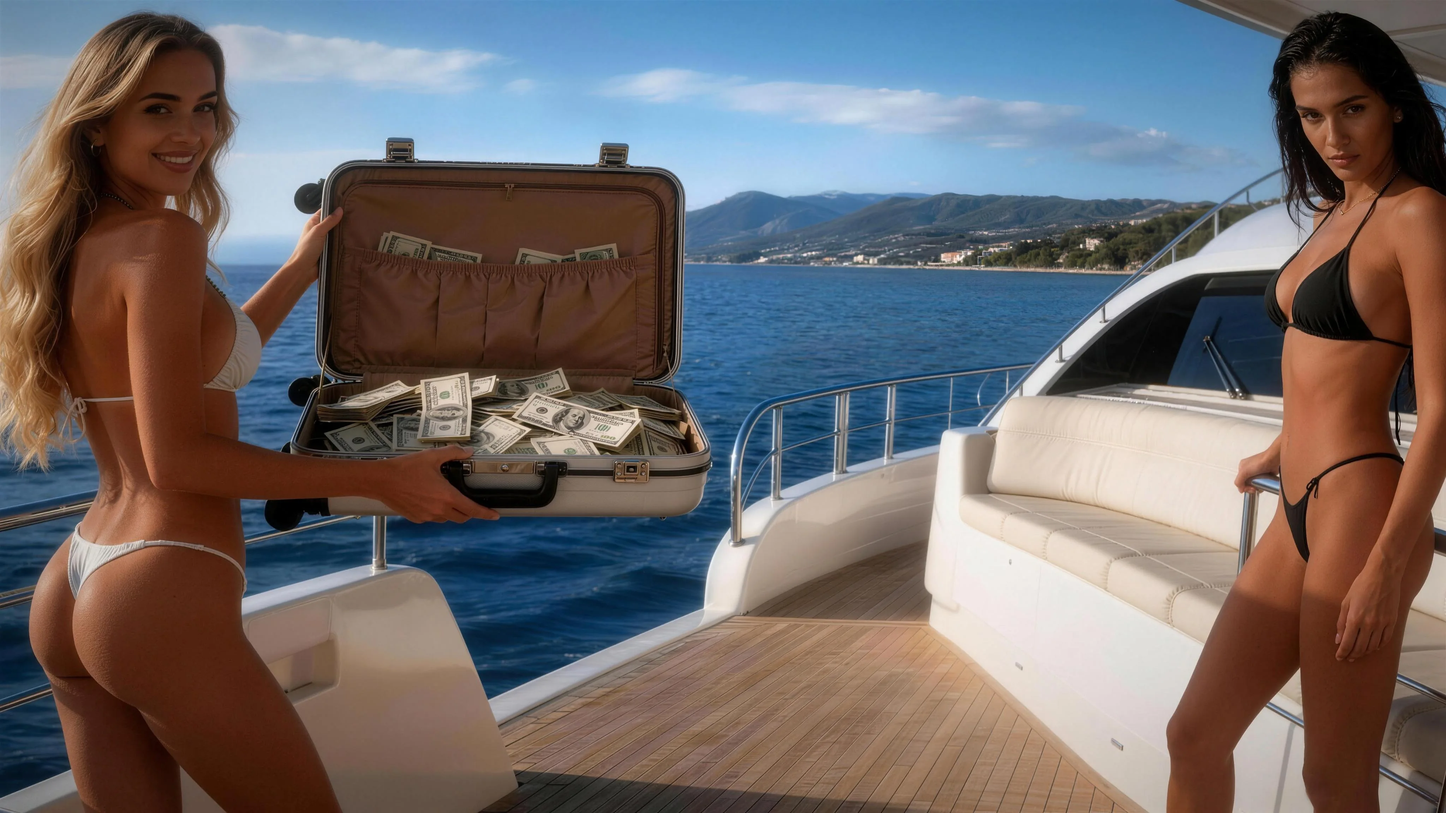
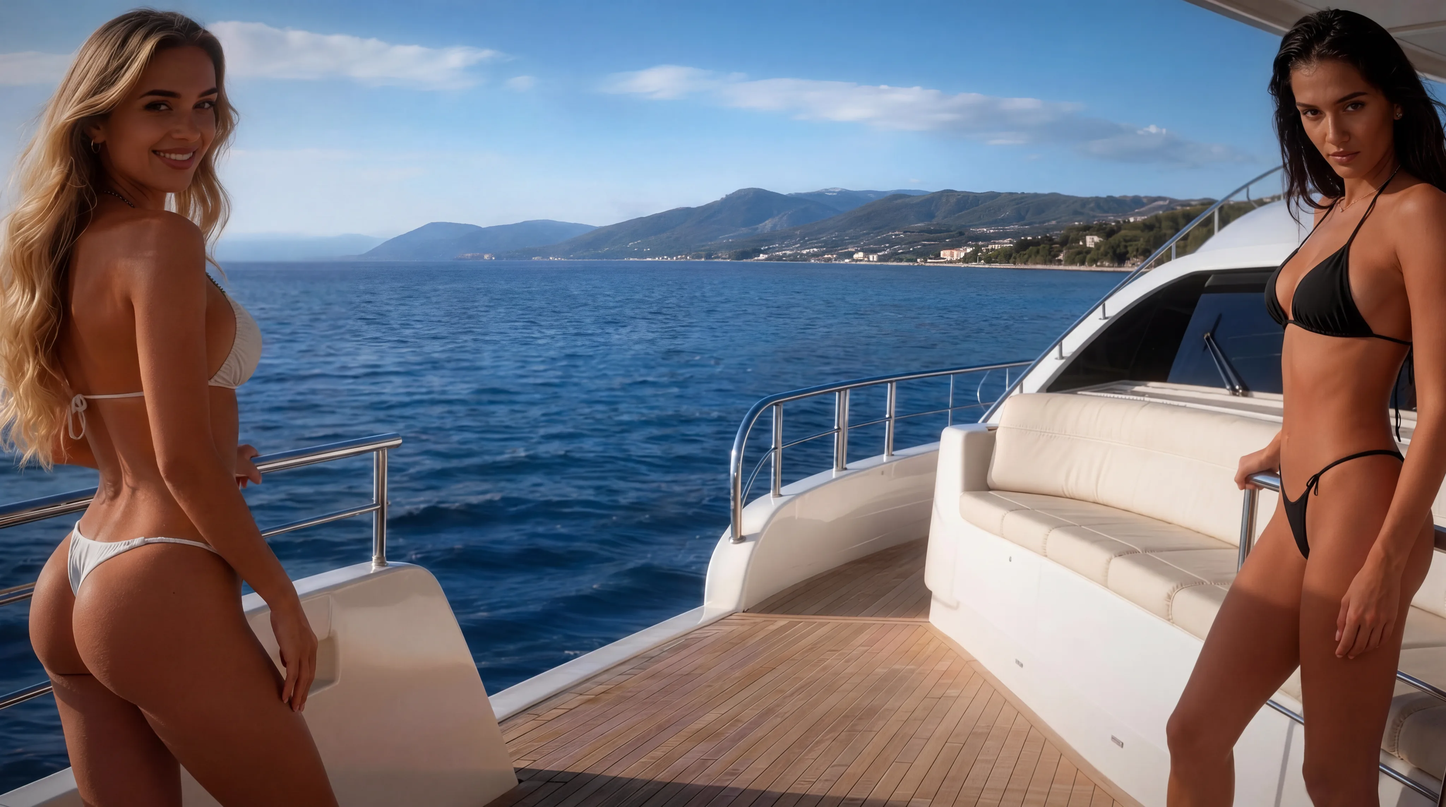
single: new daytime hero photo (same character placement), FOMO pill on a dark blurred plate (was unreadable on the bright hull), classic footer lockup — white OK on the red plate; fix hero preload (pointed at panorama.webp); cache-bust v=20260709a

diff --git a/assets/css/single.css b/assets/css/single.css
@@ -4,7 +4,7 @@
   --white: #FFFFFF; --black: #080808;
   --red: #E71F43; --red-deep: #C01935;
   --muted: rgba(255,255,255,0.62); --faint: rgba(255,255,255,0.30); --line: rgba(255,255,255,0.08);
-  --pano-url: url('../scenes/single-hero.webp');
+  --pano-url: url('../scenes/single-hero.webp?v=20260709a');
   /* fluid vertical rhythm: the poster absorbs viewport-height changes in its GAPS
      (clamped vh) while text/CTA/plates keep fixed, readable sizes */
   --hero-top: clamp(28px, 6.5vh, 76px);
@@ -26,13 +26,13 @@ body {
 .wrap { width: 100%; max-width: 1100px; margin: 0 auto; padding: 0 24px; }
 img { max-width: 100%; }
 
-/* logo lockup — classic two-tone wordmark: white «ПОКЕР» + brand-red «ОК»,
-   lives in the footer on all viewports */
+/* logo lockup — classic brand version: white «ПОКЕР» + white «ОК» on the red
+   rounded plate (no smiley-«О» variants), lives in the footer on all viewports */
 .brand-mark, .footer-mark {
   font-family: 'Montserrat', sans-serif; font-weight: 800; color: var(--white);
   display: inline-flex; align-items: center; letter-spacing: 0.02em; text-transform: uppercase; line-height: 1; white-space: nowrap;
 }
-.mark-ok { color: var(--red); }
+.mark-ok { color: var(--white); background: var(--red); padding: 0.14em 0.24em 0.12em; border-radius: 0.2em; margin-left: 0.18em; }
 
 /* ══ BUTTONS ══ */
 .cta {
@@ -113,7 +113,9 @@ section { position: relative; isolation: isolate; }
 
 /* fomo + cta group */
 .hero-cta { display: flex; flex-direction: column; align-items: center; gap: clamp(9px, 1.6vh, 14px); margin-top: var(--vgap); }
-.fomo { display: inline-flex; align-items: center; gap: 10px; padding: 9px 18px; border-radius: 100px; background: rgba(231,31,67,0.14); border: 1px solid rgba(231,31,67,0.55); font-family: 'Montserrat', sans-serif; font-size: 13px; font-weight: 700; letter-spacing: 0.05em; text-transform: uppercase; color: #fff; }
+/* dark plate + blur: the pill sits on the bright hull of the new photo, a translucent
+   red wash was not readable there */
+.fomo { display: inline-flex; align-items: center; gap: 10px; padding: 9px 18px; border-radius: 100px; background: rgba(8,8,8,0.5); backdrop-filter: blur(3px); -webkit-backdrop-filter: blur(3px); border: 1px solid rgba(231,31,67,0.55); font-family: 'Montserrat', sans-serif; font-size: 13px; font-weight: 700; letter-spacing: 0.05em; text-transform: uppercase; color: #fff; }
 .fomo-dot { width: 9px; height: 9px; border-radius: 50%; background: var(--red); animation: ping 1.4s ease-out infinite; }
 .fomo-clock { font-weight: 800; font-size: 18px; color: #fff; background: var(--red); padding: 2px 8px; border-radius: 6px; font-variant-numeric: tabular-nums; letter-spacing: 0.06em; }
 .trust-tokens { display: inline-block; font-family: 'Montserrat', sans-serif; font-size: 11px; font-weight: 600; color: rgba(255,255,255,0.85); background: rgba(8,8,8,0.34); border-radius: 10px; padding: 4px 12px; -webkit-backdrop-filter: blur(2px); backdrop-filter: blur(2px); text-shadow: 0 0 3px rgba(0,0,0,0.7); }

diff --git a/single.html b/single.html
@@ -22,8 +22,8 @@
 <link rel="preconnect" href="https://fonts.googleapis.com">
 <link rel="preconnect" href="https://fonts.gstatic.com" crossorigin>
 <link href="https://fonts.googleapis.com/css2?family=Montserrat:wght@500;600;700;800&family=Raleway:wght@400;500;600;700&display=swap" rel="stylesheet">
-<link rel="preload" as="image" href="assets/scenes/panorama.webp">
-<link rel="stylesheet" href="assets/css/single.css?v=20260706b">
+<link rel="preload" as="image" href="assets/scenes/single-hero.webp?v=20260709a">
+<link rel="stylesheet" href="assets/css/single.css?v=20260709a">
 </head>
 <body>
 
@@ -119,6 +119,6 @@
   </div>
 </footer>
 
-<script src="assets/js/single.js?v=20260706b"></script>
+<script src="assets/js/single.js?v=20260709a"></script>
 </body>
 </html>
